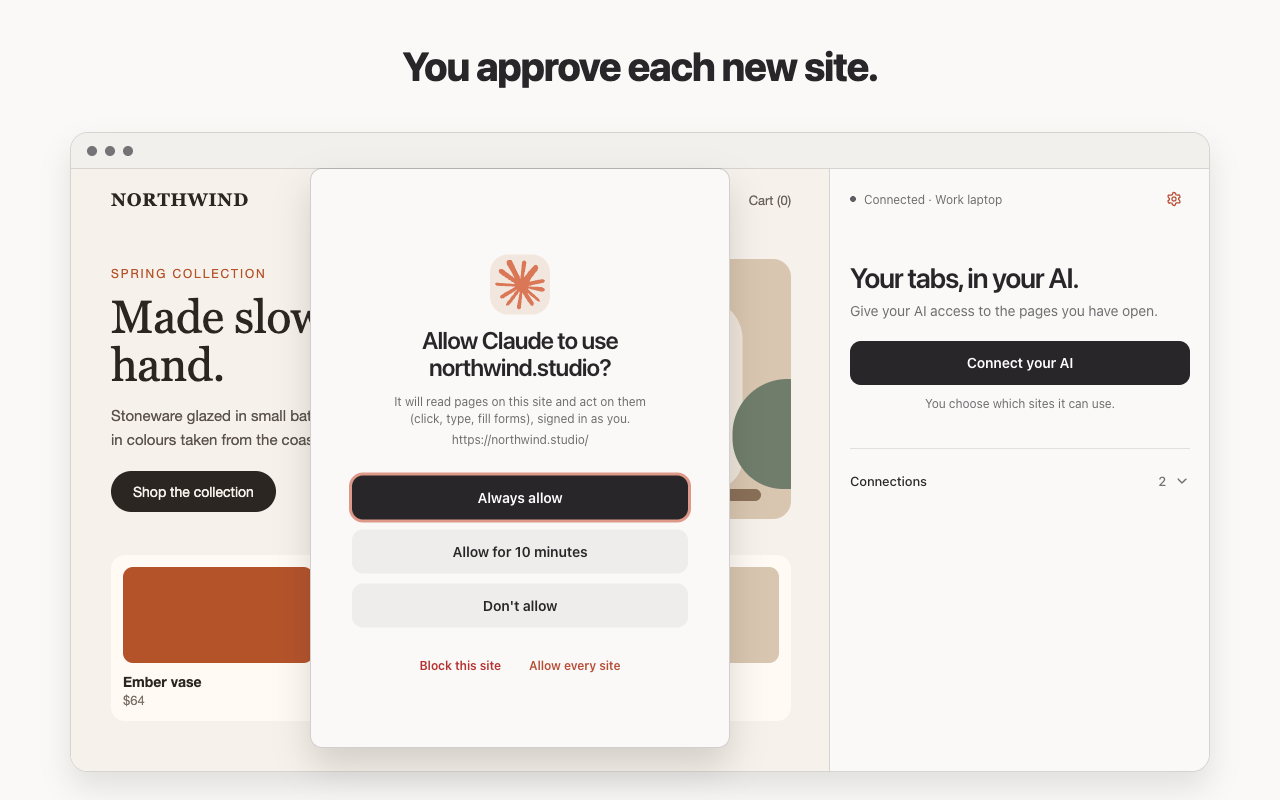
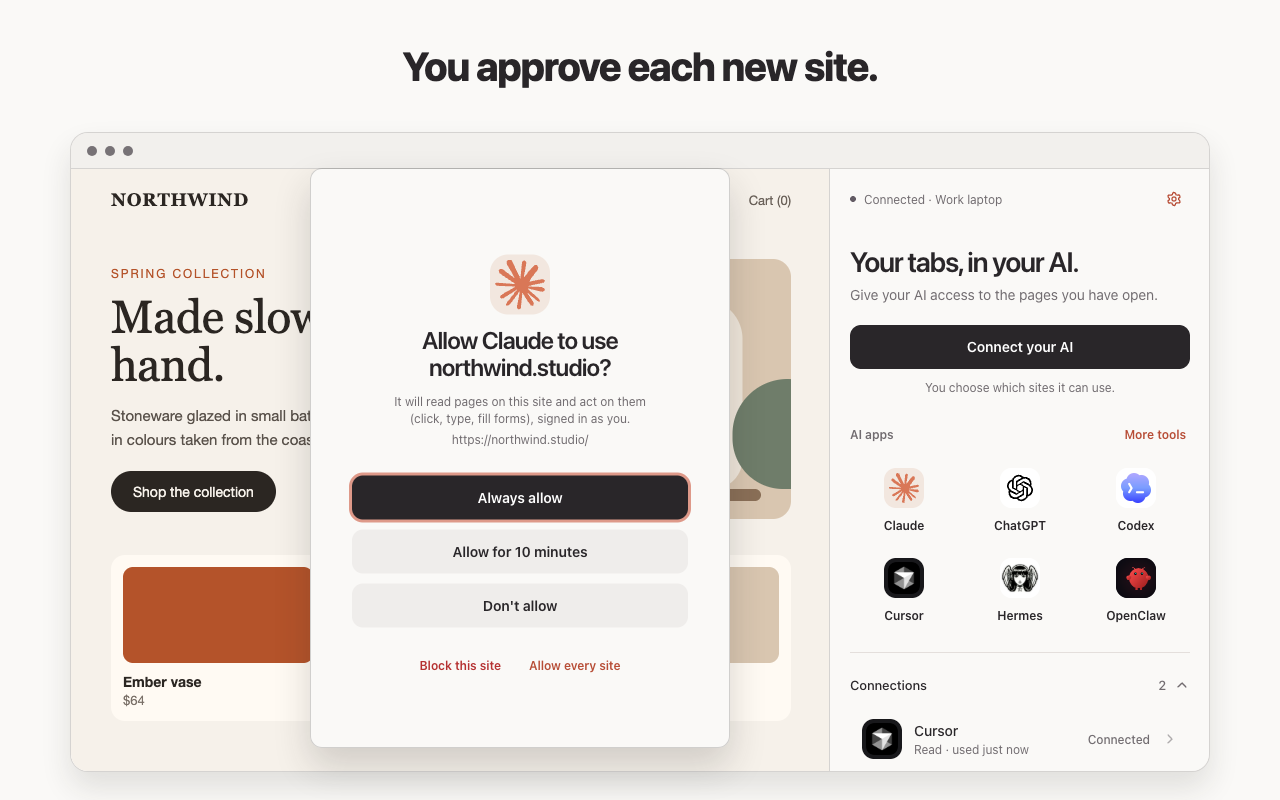
Replace personal previews and clarify Tabpass app setup (#11)

diff --git a/extension/src/sidepanel/screens/HomeScreen.tsx b/extension/src/sidepanel/screens/HomeScreen.tsx
@@ -3,15 +3,19 @@ import { ChevronDownIcon, SettingsIcon } from 'lucide-react';
 import { IconTile } from '@/components/ios/IconTile';
 import { ListRow, ListSection } from '@/components/ios/List';
 import { Pill } from '@/components/ios/Pill';
+import { AgentTile, ToolTile } from '@/components/tiles';
 import { Collapsible, CollapsibleContent, CollapsibleTrigger } from '@/components/ui/collapsible';
 import { send, type TabpassState } from '@/lib/api';
+import { CLIENTS } from '@/lib/clients';
 import { ACCESS_LABEL, agentConnectionStatus, usedText } from '@/lib/format';
 import { cn } from '@/lib/utils';
 
 import { useNavigation } from '../navigation';
 import { SitePromptCard } from '../parts/SitePromptCard';
-import { AgentTile } from '@/components/tiles';
 import { WelcomeCard } from '../parts/WelcomeCard';
+
+const HOME_TOOLS = ['claude', 'chatgpt', 'codex', 'cursor', 'hermes', 'openclaw']
+  .flatMap((id) => CLIENTS.filter((client) => client.id === id));
 
 interface ScreenProps {
   state: TabpassState | null;
@@ -26,14 +30,14 @@ function statusLine(state: TabpassState): { text: string; tone: 'ok' | 'wait' | 
   return { text: 'Connecting…', tone: 'wait' };
 }
 
-/** One connection action; saved connections and settings stay out of its way. */
+/** One connection prompt action, visible app guides, and saved connections. */
 function HomeScreen({ state, onChange }: ScreenProps) {
   const { push } = useNavigation();
   const status = state ? statusLine(state) : { text: 'Opening Tabpass…', tone: 'wait' as const };
   const connectionCount = state ? state.agents.length + state.providers.filter((provider) => provider.account).length : 0;
 
   return (
-    <div className="grid gap-7 px-5 pt-3 pb-8" aria-busy={!state}>
+    <div className="grid gap-5 px-5 pt-3 pb-8" aria-busy={!state}>
       <header className="flex min-w-0 items-center justify-between gap-3">
         <div className="flex min-w-0 items-center gap-2">
           <span aria-hidden className={cn('size-1.5 shrink-0 rounded-full', status.tone === 'ok' ? 'bg-success' : status.tone === 'wait' ? 'bg-warning' : 'bg-muted-foreground')} />
@@ -49,7 +53,7 @@ function HomeScreen({ state, onChange }: ScreenProps) {
         <SitePromptCard key={prompt.id} prompt={prompt} onChange={onChange} />
       ))}
 
-      <section className="grid gap-5 pt-4 pb-2" aria-label="Connect your AI">
+      <section className="grid gap-5 pt-2" aria-label="Connect your AI">
         <div className="grid gap-2">
           <h1 className="text-[28px] leading-[32px] font-semibold tracking-[-0.045em] outline-none">Your tabs, in your AI.</h1>
           <p className="text-[14px] leading-5 text-muted-foreground">Give your AI access to the pages you have open.</p>
@@ -60,8 +64,23 @@ function HomeScreen({ state, onChange }: ScreenProps) {
         </div>
       </section>
 
+      <section className="grid gap-2" aria-label="AI apps">
+        <div className="flex items-center justify-between gap-2">
+          <h2 className="text-[12px] font-semibold text-muted-foreground">AI apps</h2>
+          <Pill variant="plain" size="sm" className="px-1" disabled={!state} onClick={() => push({ name: 'connect' })}>More tools</Pill>
+        </div>
+        <div className="grid grid-cols-3 gap-2">
+          {HOME_TOOLS.map((guide) => (
+            <Pill key={guide.id} aria-label={`Set up ${guide.name}`} variant="plain" className="min-w-0 flex-col gap-2 px-1 py-2 text-[12px] text-foreground" disabled={!state} onClick={() => push({ name: 'tool', id: guide.id })}>
+              <ToolTile guide={guide} />
+              {guide.name}
+            </Pill>
+          ))}
+        </div>
+      </section>
+
       {state && (connectionCount > 0 || state.providers.length > 0) && (
-        <Collapsible className="group border-t border-border pt-2">
+        <Collapsible defaultOpen className="group border-t border-border pt-2">
           <CollapsibleTrigger className="flex min-h-12 w-full items-center gap-2 rounded-lg text-left text-[13px] font-medium outline-none focus-visible:ring-2 focus-visible:ring-ring/70">
             <span className="flex-1">Connections</span>
             <span className="text-muted-foreground">{connectionCount}</span>

diff --git a/extension/src/sidepanel/screens/BrowserScreen.tsx b/extension/src/sidepanel/screens/BrowserScreen.tsx
@@ -31,7 +31,7 @@ function BrowserScreen({ state, onChange }: { state: TabpassState; onChange: () 
       setError(failure instanceof Error ? failure.message : String(failure));
     }
   };
-  const field = 'field-surface h-12 min-w-0 flex-1 rounded-xl px-3 text-[14px] outline-none placeholder:text-muted-foreground focus-visible:ring-2 focus-visible:ring-ring/70';
+  const field = 'field-surface h-11 w-full min-w-0 flex-1 rounded-[11px] px-3 text-[14px] outline-none placeholder:text-muted-foreground focus-visible:ring-2 focus-visible:ring-ring/70';
 
   return (
     <>
@@ -43,17 +43,17 @@ function BrowserScreen({ state, onChange }: { state: TabpassState; onChange: () 
           <ListRow title="Activity" onClick={() => push({ name: 'activity' })} />
           <ListRow title="App setup options" onClick={() => push({ name: 'connect' })} />
         </ListSection>
-        <form onSubmit={save('setBrowserName', { browserName: name })}>
+        <form className="min-w-0" onSubmit={save('setBrowserName', { browserName: name })}>
           <ListSection title="Name" footer="Agents use it to pick between your browsers.">
-            <div className="flex items-center pr-2">
+            <div className="flex min-w-0 items-center gap-2">
               <input id="browser-name" aria-label="Browser name" value={name} onChange={(event) => setName(event.target.value)} maxLength={60} className={field} />
-              <Pill type="submit" size="sm" variant="secondary">
+              <Pill type="submit" variant="secondary" className="h-11 px-4">
                 Save
               </Pill>
             </div>
           </ListSection>
         </form>
-        <form onSubmit={save('setRelayUrl', { relayUrl })}>
+        <form className="min-w-0" onSubmit={save('setRelayUrl', { relayUrl })}>
           <ListSection
             title="Relay"
             footer={
@@ -66,7 +66,7 @@ function BrowserScreen({ state, onChange }: { state: TabpassState; onChange: () 
               )
             }
           >
-            <div className="flex items-center pr-2">
+            <div className="flex min-w-0 items-center gap-2">
               <input
                 id="relay-url"
                 aria-label="Relay address"
@@ -76,7 +76,7 @@ function BrowserScreen({ state, onChange }: { state: TabpassState; onChange: () 
                 autoComplete="off"
                 className={`${field} font-mono text-[13px]`}
               />
-              <Pill type="submit" size="sm" variant="secondary">
+              <Pill type="submit" variant="secondary" className="h-11 px-4">
                 Save
               </Pill>
             </div>

diff --git a/extension/src/components/tiles.tsx b/extension/src/components/tiles.tsx
@@ -4,6 +4,7 @@ import { IconTile } from '@/components/ios/IconTile';
 import type { Agent } from '@/lib/api';
 import { CLIENTS, type ClientGuide, type ClientKind } from '@/lib/clients';
 import { GROUP_COLORS } from '@/lib/format';
+import { cn } from '@/lib/utils';
 
 const CLIENT_ICONS: Partial<Record<string, { src: string; background: string; className?: string }>> = {
   claude: { src: '/icons/clients/claude.svg', background: '#f2e7df', className: 'p-[5px]' },
@@ -11,6 +12,8 @@ const CLIENT_ICONS: Partial<Record<string, { src: string; background: string; cl
   chatgpt: { src: '/icons/clients/chatgpt.svg', background: '#fff' },
   cursor: { src: '/icons/clients/cursor.png', background: '#18181b', className: 'p-1' },
   codex: { src: '/icons/clients/codex.png', background: '#fff' },
+  hermes: { src: '/icons/clients/hermes.jpg', background: '#fff' },
+  openclaw: { src: '/icons/clients/openclaw.png', background: '#06090e', className: 'object-cover object-left' },
   'gemini-cli': { src: '/icons/clients/gemini.png', background: '#fff', className: 'p-1' },
   windsurf: { src: '/icons/clients/windsurf.svg', background: '#111827' },
   'copilot-cli': { src: '/icons/clients/copilot.svg', background: '#fff', className: 'p-[5px]' },
@@ -41,7 +44,7 @@ function ClientTile({ guide, size }: { guide: ClientGuide; size: 'sm' | 'lg' }) 
       {icon ? (
         <img
           alt=""
-          className={`size-full rounded-[inherit] object-contain ${icon.className ?? ''}`}
+          className={cn('size-full rounded-[inherit] object-contain', icon.className)}
           src={icon.src}
         />
       ) : (

diff --git a/extension/src/sidepanel/screens/TokenScreen.tsx b/extension/src/sidepanel/screens/TokenScreen.tsx
@@ -54,14 +54,9 @@ function TokenScreen({ onChange }: { onChange: () => void }) {
             />
           </div>
         </ListSection>
-        <details className="group">
-          <summary className="min-h-11 cursor-pointer rounded-lg py-3 px-1 text-[13px] text-muted-foreground outline-none focus-visible:ring-2 focus-visible:ring-ring/70">Name this connection</summary>
-          <div className="pt-2">
-            <ListSection title="Name">
-              <input id="agent-name" aria-label="Connection name" value={label} onChange={(event) => setLabel(event.target.value)} disabled={saving} maxLength={40} autoComplete="off" className="field-surface h-12 w-full rounded-xl px-3 text-[14px] outline-none focus-visible:ring-2 focus-visible:ring-ring/70" />
-            </ListSection>
-          </div>
-        </details>
+        <ListSection title="Name">
+          <input id="agent-name" aria-label="Connection name" value={label} onChange={(event) => setLabel(event.target.value)} disabled={saving} maxLength={40} autoComplete="off" className="field-surface h-11 w-full rounded-[11px] px-3 text-[14px] outline-none focus-visible:ring-2 focus-visible:ring-ring/70" />
+        </ListSection>
         {error && <p role="alert" className="px-1 text-[13px] leading-[18px] text-destructive">{error}</p>}
         <Pill type="submit" disabled={saving || !label.trim()} className="justify-self-stretch">
           {saving ? 'Creating…' : 'Continue'}

diff --git a/relay/src/core/authorize-page.ts b/relay/src/core/authorize-page.ts
@@ -17,7 +17,8 @@ function escapeHtml(value: string): string {
   return value.replace(/[&<>"']/g, (char) => ({ '&': '&amp;', '<': '&lt;', '>': '&gt;', '"': '&quot;', "'": '&#39;' })[char] ?? char);
 }
 
-const ICON = `<svg viewBox="0 0 128 128" width="64" height="64" aria-hidden="true"><rect width="128" height="128" rx="28" fill="#18181b"/><path d="M22 44a8 8 0 0 1 8-8h24a8 8 0 0 1 6.9 4l5.2 9H98a8 8 0 0 1 8 8v39a8 8 0 0 1-8 8H30a8 8 0 0 1-8-8Z" fill="none" stroke="#fafafa" stroke-width="9" stroke-linejoin="round"/><circle cx="64" cy="76" r="11" fill="#3b82f6"/></svg>`;
+// Same mark as the extension icons generated by e2e/make-icons.mjs.
+const ICON = `<svg viewBox="0 0 128 128" width="64" height="64" aria-hidden="true"><rect width="128" height="128" rx="28" fill="#cb593f"/><rect x="28" y="25" width="52" height="61" rx="9" fill="none" stroke="#fff" stroke-opacity=".55" stroke-width="8"/><rect x="48" y="43" width="52" height="61" rx="9" fill="#cb593f" stroke="#fff" stroke-width="8"/></svg>`;
 
 const STYLE = `
 :root{--bg:#f2f2f7;--card:#fff;--text:#1c1c1e;--muted:#6e6e73;--line:rgba(60,60,67,.14);--primary:#1c1c1e;--on-primary:#fff;--danger:#d70015;color-scheme:light dark}

diff --git a/store/listing.md b/store/listing.md
@@ -22,7 +22,7 @@ Connect compatible AI apps to your open tabs. Share page content and allow brows
 
 ## Description
 
-For extension 0.3.3. Plain text. The store does not render Markdown, so paste it as is.
+For extension 0.3.4. Plain text. The store does not render Markdown, so paste it as is.
 
 ```
 Your AI can work with the pages you already have open, signed in as you. Use it to research, read references or work through browser tasks. You approve each new site first.
@@ -126,10 +126,10 @@ Promo images must not claim store status ("Editor's choice", "#1") and should no
 
 ## Screenshots
 
-Five 1280x800 PNGs in `store/images/` show the 0.3.3 production UI. `02-connect.png` is a genuine Chrome capture with the public Migma website and Tabpass side panel. The other four use the fictional Northwind Studio shop and sample connections in a controlled local test; they illustrate the real extension UI, not customer sessions. Regenerate and inspect images after UI changes:
+Five 1280x800 PNGs in `store/images/` show the extension UI with generated storefront artwork and synthetic connections. They are illustrative examples, never captures of a personal browser. Regenerate and inspect images after UI changes:
 
 ```bash
-yarn --cwd relay build && cd e2e && STORE_BROWSER_SCREENSHOT=/absolute/path/chrome-capture.png xvfb-run -a node store-assets.mjs
+yarn --cwd relay build && cd e2e && xvfb-run -a node store-assets.mjs
 ```
 
 The script serves the relay and fictional `northwind.studio` product page locally. It also serves a local placeholder at `chatgpt.com` for the OAuth return address; it does not connect to that service. Product content and connection credentials are synthetic; bundled app names and icons identify real compatibility guides. The screenshots show the actual extension UI. Run the script again after any UI change, so the images match the build you submit.
@@ -137,7 +137,7 @@ The script serves the relay and fictional `northwind.studio` product page locall
 | File | Caption (in the image) | What it shows |
 |---|---|---|
 | `01-home.png` | Your AI, your open tabs. | Simplified home beside the fictional Northwind shop. |
-| `02-connect.png` | None | Real Chrome showing migma.ai and the minimal app setup panel; only the public MCP URL is visible. |
+| `02-connect.png` | Copy a prompt into your AI. | Generated storefront with a synthetic connection; private setup values stay hidden. |
 | `03-approve-sites.png` | You approve each new site. | "Allow Claude to use northwind.studio?" with Always allow, Allow for 10 minutes, Don't allow, Block this site. |
 | `04-sign-in.png` | You choose what your AI can do. | Tabpass approval window with Read or Read and act. |
 | `05-dark.png` | Light or dark, it follows Chrome. | Home in dark mode. |
